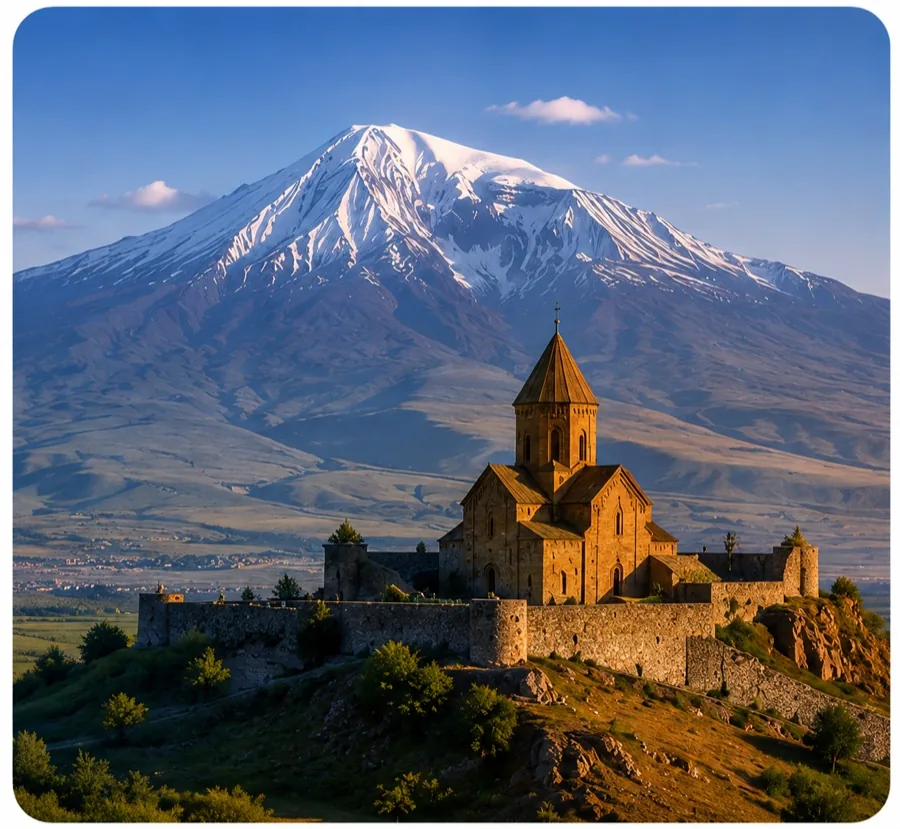
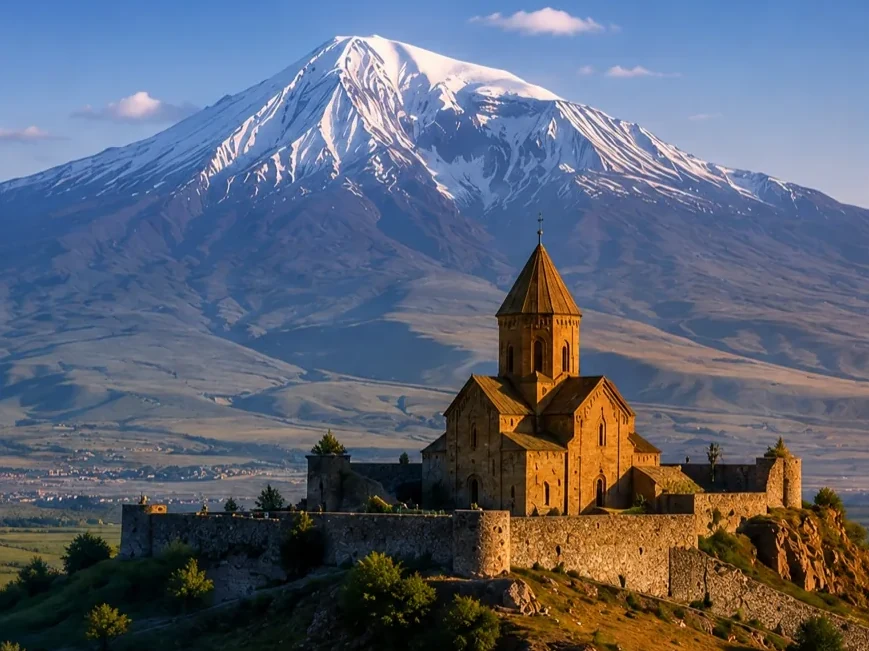
Cases block: result lines, CTA button, Schema.org, photo fix
- RU/EN: updated H2, added result line to each case card
- RU card 2: replaced "Бухгалтерское сопровождение" with "Налоговая регистрация"
- Added "Обсудить ваш случай" / "Discuss Your Case" CTA after metrics
- Added Schema.org ItemList JSON-LD to <head> of both pages
- CSS: .case-result and .cases-cta, border-radius on .case-card-photo
- case-ukraine.webp / case-armenia.webp: removed baked-in white card frame, cropped to 4:3

diff --git a/index.html b/index.html
@@ -799,7 +799,7 @@
     transition: transform 0.3s ease, box-shadow 0.3s ease;
   }
   .case-card:hover { transform: translateY(-4px); box-shadow: 0 40px 70px -40px rgba(10,37,64,0.45); }
-  .case-card-photo { position: relative; aspect-ratio: 4 / 3; overflow: hidden; }
+  .case-card-photo { position: relative; aspect-ratio: 4 / 3; overflow: hidden; border-radius: 20px 20px 0 0; }
   .case-card-photo img { width: 100%; height: 100%; object-fit: cover; display: block; }
   .case-card-body { padding: var(--card-pad); display: flex; flex-direction: column; gap: var(--s2); }
   .case-card-body h3 { font-size: 1.3rem; letter-spacing: -0.01em; }
@@ -812,6 +812,9 @@
     border-radius: 50%;
     padding: 4px;
   }
+  .case-result { margin-top: var(--s2); padding-top: var(--s2); border-top: 1px solid var(--line); font-size: 0.875rem; color: var(--navy-70); line-height: 1.45; }
+  .case-result strong { color: var(--blue); font-weight: 600; }
+  .cases-cta { margin-top: var(--s6); display: flex; justify-content: center; }
 
   .case-metrics {
     display: grid;
@@ -1345,6 +1348,33 @@
 </script>
 <!-- Contentsquare -->
 <script src="https://t.contentsquare.net/uxa/dfbca00b711ef.js" defer></script>
+<script type="application/ld+json">
+{
+  "@context": "https://schema.org",
+  "@type": "ItemList",
+  "name": "Реальные кейсы клиентов на Кипре",
+  "itemListElement": [
+    {
+      "@type": "ListItem",
+      "position": 1,
+      "name": "IT-компания из ОАЭ",
+      "description": "Регистрация компании на Кипре, открытие банковского счёта, ВНЖ для владельца. Результат: компания открыта за 8 дней."
+    },
+    {
+      "@type": "ListItem",
+      "position": 2,
+      "name": "Предприниматель из Армении",
+      "description": "Регистрация компании, банковский счёт, налоговая регистрация на Кипре."
+    },
+    {
+      "@type": "ListItem",
+      "position": 3,
+      "name": "Семья из Украины",
+      "description": "ВНЖ на Кипре для всей семьи, медицинская страховка, полное сопровождение переезда."
+    }
+  ]
+}
+</script>
 </head>
 <body>
 
@@ -1686,7 +1716,7 @@
     <div class="wrap">
       <div class="section-head reveal">
         <span class="eyebrow">Кейсы и доверие</span>
-        <h2>Реальные кейсы наших клиентов</h2>
+        <h2>Реальные кейсы клиентов на Кипре</h2>
         <p>Примеры проектов по регистрации компаний, ВНЖ и сопровождению бизнеса на Кипре.</p>
       </div>
 
@@ -1700,6 +1730,7 @@
                 <li><svg viewBox="0 0 24 24" fill="none" stroke="currentColor" stroke-width="2.4"><path d="M5 13l4 4L19 7"/></svg>Банковский счёт</li>
                 <li><svg viewBox="0 0 24 24" fill="none" stroke="currentColor" stroke-width="2.4"><path d="M5 13l4 4L19 7"/></svg>ВНЖ для владельца</li>
               </ul>
+              <p class="case-result"><strong>Результат:</strong> компания открыта за 8 дней, ВНЖ для владельца получен через 3 месяца</p>
             </div>
           </article>
           <article class="case-card">
@@ -1709,8 +1740,9 @@
               <ul class="case-results">
                 <li><svg viewBox="0 0 24 24" fill="none" stroke="currentColor" stroke-width="2.4"><path d="M5 13l4 4L19 7"/></svg>Регистрация компании</li>
                 <li><svg viewBox="0 0 24 24" fill="none" stroke="currentColor" stroke-width="2.4"><path d="M5 13l4 4L19 7"/></svg>Банковский счёт</li>
-                <li><svg viewBox="0 0 24 24" fill="none" stroke="currentColor" stroke-width="2.4"><path d="M5 13l4 4L19 7"/></svg>Бухгалтерское сопровождение</li>
+                <li><svg viewBox="0 0 24 24" fill="none" stroke="currentColor" stroke-width="2.4"><path d="M5 13l4 4L19 7"/></svg>Налоговая регистрация</li>
               </ul>
+              <p class="case-result"><strong>Результат:</strong> компания, счёт и налоговая регистрация за 2 недели</p>
             </div>
           </article>
           <article class="case-card">
@@ -1722,6 +1754,7 @@
                 <li><svg viewBox="0 0 24 24" fill="none" stroke="currentColor" stroke-width="2.4"><path d="M5 13l4 4L19 7"/></svg>Медицинская страховка</li>
                 <li><svg viewBox="0 0 24 24" fill="none" stroke="currentColor" stroke-width="2.4"><path d="M5 13l4 4L19 7"/></svg>Полное сопровождение</li>
               </ul>
+              <p class="case-result"><strong>Результат:</strong> вся семья получила ВНЖ на Кипре с первого раза</p>
             </div>
           </article>
       </div>
@@ -1739,6 +1772,12 @@
           <div class="m-big">10<small>+</small></div>
           <div class="m-cap">лет практики на Кипре и в юрисдикциях ЕС</div>
         </div>
+      </div>
+      <div class="cases-cta">
+        <a href="#" class="btn btn-wa" data-wa>
+          <svg viewBox="0 0 24 24" fill="currentColor" width="20" height="20" aria-hidden="true"><path d="M12.04 2C6.58 2 2.13 6.45 2.13 11.91c0 1.75.46 3.45 1.32 4.95L2 22l5.25-1.38c1.45.79 3.08 1.21 4.79 1.21 5.46 0 9.91-4.45 9.91-9.91C21.95 6.45 17.5 2 12.04 2zm5.8 14.04c-.24.68-1.42 1.31-1.95 1.36-.5.05-.96.24-3.23-.67-2.72-1.07-4.45-3.86-4.59-4.04-.13-.18-1.1-1.47-1.1-2.8s.7-1.98.95-2.25c.24-.27.53-.34.71-.34.18 0 .36 0 .51.01.16.01.39-.06.6.46.24.59.81 2.03.88 2.18.07.15.12.32.02.51-.09.18-.14.3-.27.46-.14.15-.29.35-.41.47-.14.13-.28.28-.12.55.16.27.71 1.17 1.53 1.9 1.05.94 1.94 1.23 2.21 1.36.27.14.43.12.59-.07.15-.18.68-.79.86-1.07.18-.27.36-.22.6-.13.24.09 1.55.73 1.81.86.27.14.45.2.51.31.07.11.07.64-.17 1.32z"/></svg>
+          Обсудить ваш случай
+        </a>
       </div>
     </div>
   </section>

diff --git a/index-en.html b/index-en.html
@@ -287,13 +287,16 @@
   .case-grid { display: grid; grid-template-columns: repeat(3, 1fr); gap: var(--s4); }
   .case-card { background: var(--white); border-radius: 20px; overflow: hidden; border: 1px solid var(--line); box-shadow: 0 30px 60px -45px rgba(10,37,64,0.4); display: flex; flex-direction: column; transition: transform 0.3s ease, box-shadow 0.3s ease; }
   .case-card:hover { transform: translateY(-4px); box-shadow: 0 40px 70px -40px rgba(10,37,64,0.45); }
-  .case-card-photo { position: relative; aspect-ratio: 4 / 3; overflow: hidden; }
+  .case-card-photo { position: relative; aspect-ratio: 4 / 3; overflow: hidden; border-radius: 20px 20px 0 0; }
   .case-card-photo img { width: 100%; height: 100%; object-fit: cover; display: block; }
   .case-card-body { padding: var(--card-pad); display: flex; flex-direction: column; gap: var(--s2); }
   .case-card-body h3 { font-size: 1.3rem; letter-spacing: -0.01em; }
   .case-results { list-style: none; display: flex; flex-direction: column; gap: var(--s2); }
   .case-results li { display: flex; align-items: center; gap: 0.65rem; font-size: 0.97rem; color: var(--navy-70); font-weight: 500; }
   .case-results svg { width: 22px; height: 22px; flex: none; color: #16a34a; background: rgba(22,163,74,0.10); border-radius: 50%; padding: 4px; }
+  .case-result { margin-top: var(--s2); padding-top: var(--s2); border-top: 1px solid var(--line); font-size: 0.875rem; color: var(--navy-70); line-height: 1.45; }
+  .case-result strong { color: var(--blue); font-weight: 600; }
+  .cases-cta { margin-top: var(--s6); display: flex; justify-content: center; }
   .case-metrics { display: grid; grid-template-columns: repeat(3, 1fr); gap: var(--s4); margin-top: clamp(40px, 5vh, 64px); }
   .metric { padding: var(--s3) 0; border-top: 1px solid var(--line); }
   .metric .m-big { font-size: clamp(2rem, 3.5vw, 2.8rem); font-weight: 700; color: var(--navy); letter-spacing: -0.03em; line-height: 1; }
@@ -660,6 +663,33 @@
 </script>
 <!-- Contentsquare -->
 <script src="https://t.contentsquare.net/uxa/dfbca00b711ef.js" defer></script>
+<script type="application/ld+json">
+{
+  "@context": "https://schema.org",
+  "@type": "ItemList",
+  "name": "Client Cases — Company Registration and Residence Permits in Cyprus",
+  "itemListElement": [
+    {
+      "@type": "ListItem",
+      "position": 1,
+      "name": "IT Company from the UAE",
+      "description": "Cyprus company registration, corporate bank account, residence permit for director. Completed in 8 days."
+    },
+    {
+      "@type": "ListItem",
+      "position": 2,
+      "name": "Entrepreneur from Armenia",
+      "description": "Company registration, bank account opening, accounting services in Cyprus."
+    },
+    {
+      "@type": "ListItem",
+      "position": 3,
+      "name": "Family from Ukraine",
+      "description": "Residence permit in Cyprus for the full family, health insurance, full relocation support."
+    }
+  ]
+}
+</script>
 </head>
 <body>
 
@@ -986,7 +1016,7 @@
     <div class="wrap">
       <div class="section-head reveal">
         <span class="eyebrow">Client Cases</span>
-        <h2>Real Cases from Our Clients</h2>
+        <h2>Client Cases — Company Registration and Residence Permits in Cyprus</h2>
         <p>Examples of company registrations, residence permits and business support projects in Cyprus.</p>
       </div>
 
@@ -1000,6 +1030,7 @@
               <li><svg viewBox="0 0 24 24" fill="none" stroke="currentColor" stroke-width="2.4"><path d="M5 13l4 4L19 7"/></svg>Corporate bank account opened</li>
               <li><svg viewBox="0 0 24 24" fill="none" stroke="currentColor" stroke-width="2.4"><path d="M5 13l4 4L19 7"/></svg>Residence permit for director</li>
             </ul>
+            <p class="case-result"><strong>Result:</strong> company registered in 8 days, residence permit obtained in 3 months</p>
           </div>
         </article>
         <article class="case-card">
@@ -1011,6 +1042,7 @@
               <li><svg viewBox="0 0 24 24" fill="none" stroke="currentColor" stroke-width="2.4"><path d="M5 13l4 4L19 7"/></svg>Bank account</li>
               <li><svg viewBox="0 0 24 24" fill="none" stroke="currentColor" stroke-width="2.4"><path d="M5 13l4 4L19 7"/></svg>Accounting services</li>
             </ul>
+            <p class="case-result"><strong>Result:</strong> company and bank account opened, accounting ongoing since 2023</p>
           </div>
         </article>
         <article class="case-card">
@@ -1022,6 +1054,7 @@
               <li><svg viewBox="0 0 24 24" fill="none" stroke="currentColor" stroke-width="2.4"><path d="M5 13l4 4L19 7"/></svg>Health insurance</li>
               <li><svg viewBox="0 0 24 24" fill="none" stroke="currentColor" stroke-width="2.4"><path d="M5 13l4 4L19 7"/></svg>Full relocation support</li>
             </ul>
+            <p class="case-result"><strong>Result:</strong> full family received residence permits in Cyprus on first application</p>
           </div>
         </article>
       </div>
@@ -1039,6 +1072,12 @@
           <div class="m-big">10<small>+</small></div>
           <div class="m-cap">years of practice in Cyprus and EU jurisdictions</div>
         </div>
+      </div>
+      <div class="cases-cta">
+        <a href="#" class="btn btn-wa" data-wa>
+          <svg viewBox="0 0 24 24" fill="currentColor" width="20" height="20" aria-hidden="true"><path d="M12.04 2C6.58 2 2.13 6.45 2.13 11.91c0 1.75.46 3.45 1.32 4.95L2 22l5.25-1.38c1.45.79 3.08 1.21 4.79 1.21 5.46 0 9.91-4.45 9.91-9.91C21.95 6.45 17.5 2 12.04 2zm5.8 14.04c-.24.68-1.42 1.31-1.95 1.36-.5.05-.96.24-3.23-.67-2.72-1.07-4.45-3.86-4.59-4.04-.13-.18-1.1-1.47-1.1-2.8s.7-1.98.95-2.25c.24-.27.53-.34.71-.34.18 0 .36 0 .51.01.16.01.39-.06.6.46.24.59.81 2.03.88 2.18.07.15.12.32.02.51-.09.18-.14.3-.27.46-.14.15-.29.35-.41.47-.14.13-.28.28-.12.55.16.27.71 1.17 1.53 1.9 1.05.94 1.94 1.23 2.21 1.36.27.14.43.12.59-.07.15-.18.68-.79.86-1.07.18-.27.36-.22.6-.13.24.09 1.55.73 1.81.86.27.14.45.2.51.31.07.11.07.64-.17 1.32z"/></svg>
+          Discuss Your Case
+        </a>
       </div>
     </div>
   </section>